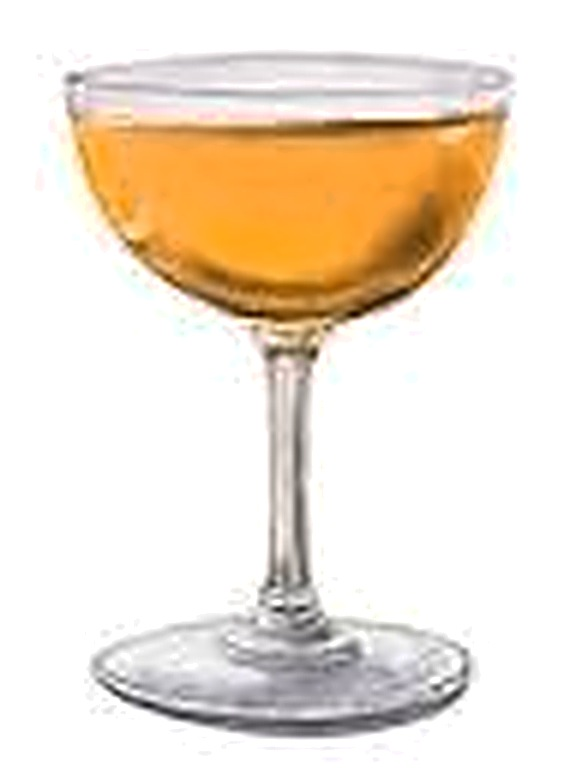
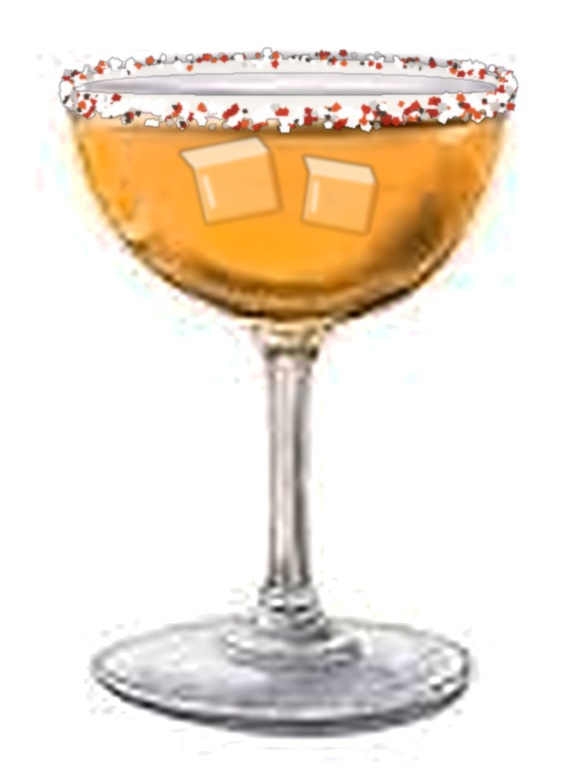
Poster: salt-and-chili rim and two ice cubes on the Spicy Margarita
Claude-Session: https://claude.ai/code/session_01HYkb5V22HkBGdt4293FLKk

Changed region(s): [[0.0895, 0.0615, 0.9246, 0.3077]]

diff --git a/posters/cocktails/poster.html b/posters/cocktails/poster.html
@@ -144,7 +144,7 @@ a{color:#B8904F}a:hover{color:#8C6A3E}
 </header>
 
 <section style="position: relative; display: flex; align-items: center; gap: 36px">
-<img src="images/margarita.jpg" alt="Spicy Margarita in a coupe glass" style="flex-shrink: 0; width: 330px; height: 400px; object-fit: contain; mix-blend-mode: multiply">
+<img src="images/margarita.jpg" alt="Spicy Margarita in a coupe glass with a salt and chili rim and ice" style="flex-shrink: 0; width: 330px; height: 400px; object-fit: contain; mix-blend-mode: multiply">
 <div style="display: flex; flex-direction: column; gap: 8px; max-width: 520px">
 <h2 style="margin: 0; font-size: 56px; font-weight: 700; line-height: 1; color: #D35A22">Spicy Margarita</h2>
 <div style="font-family: 'Pinyon Script', cursive; font-size: 38px; line-height: 1.1; color: #D35A22">a little heat, a lot of fun</div>
